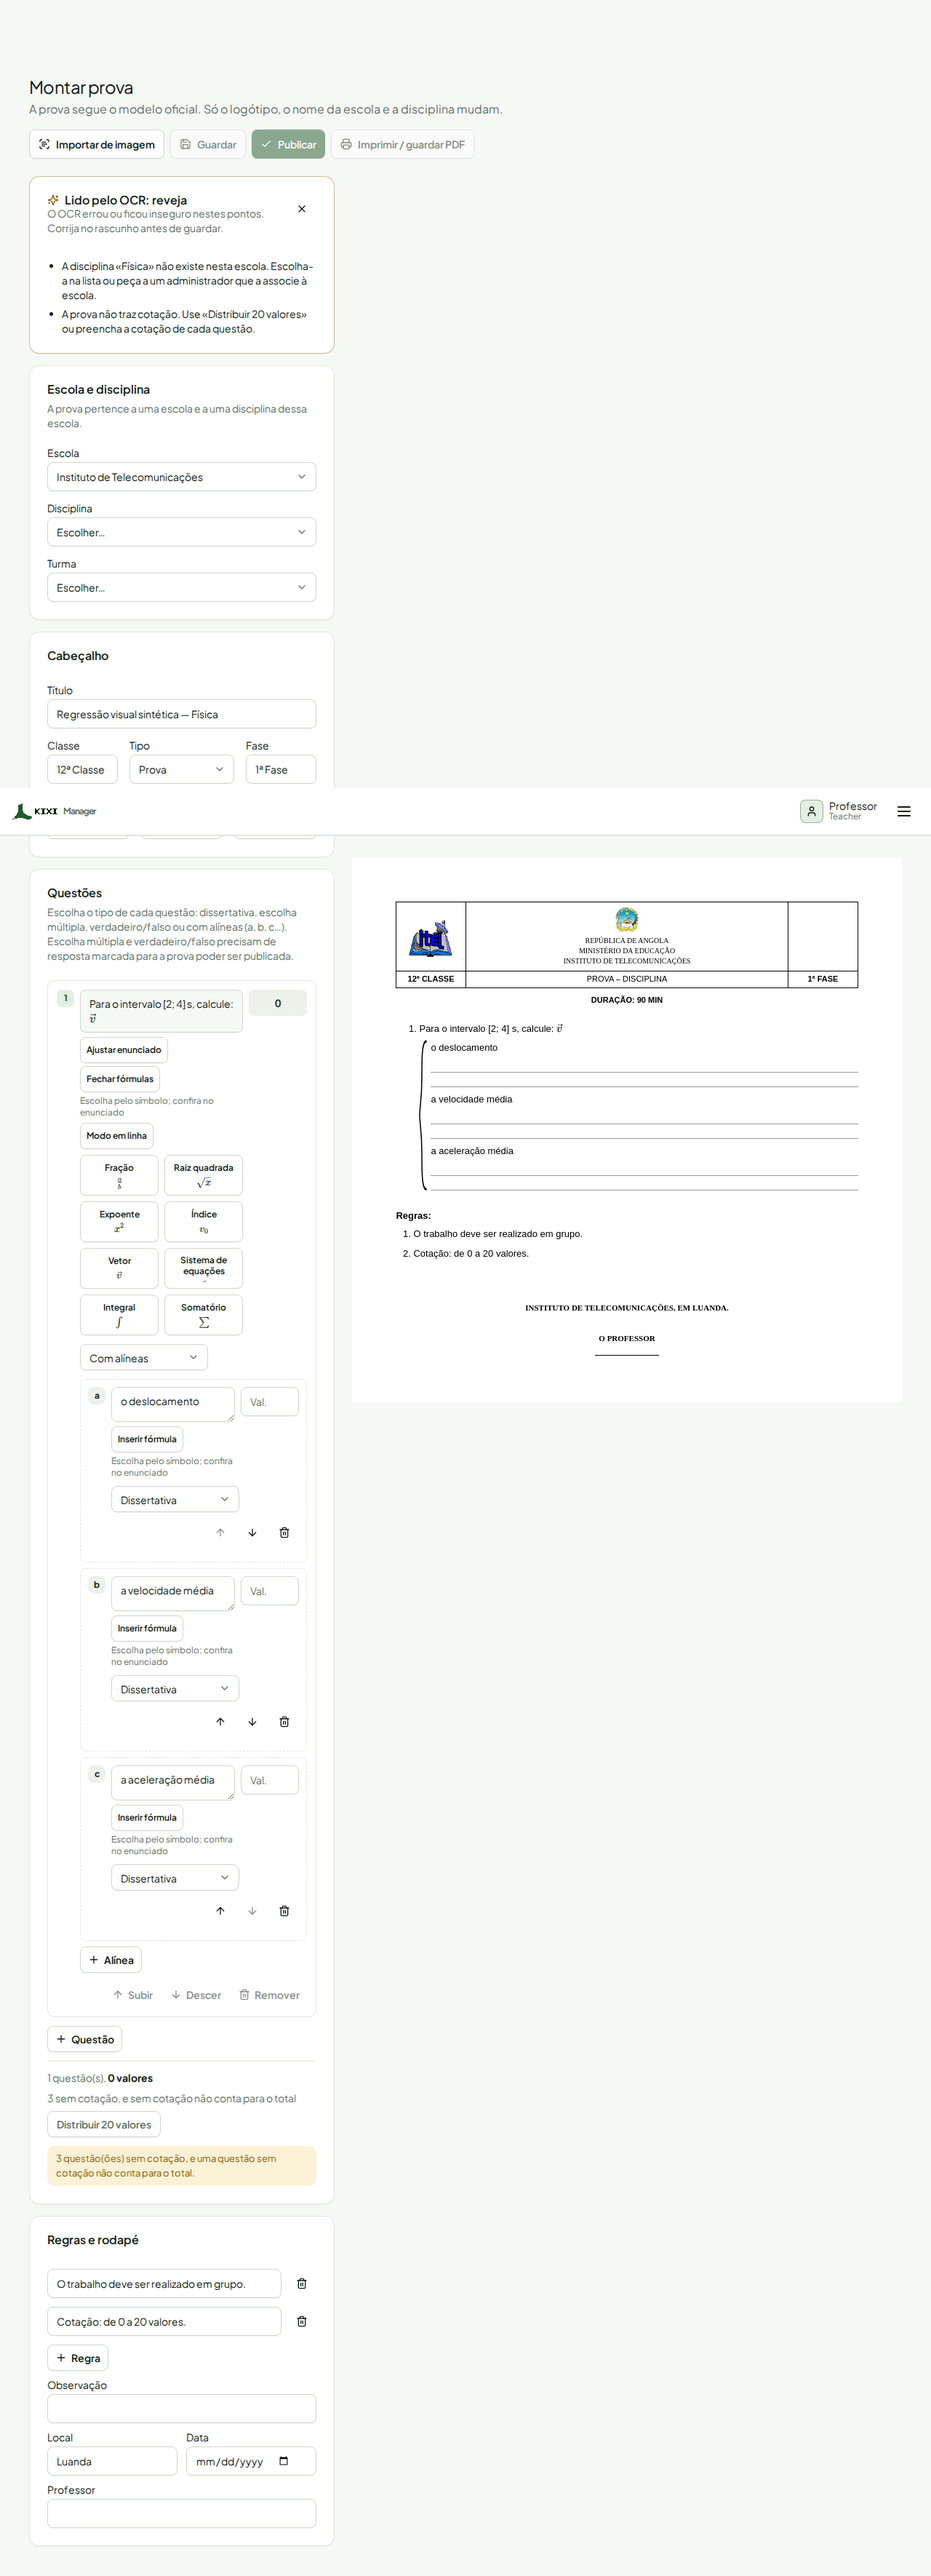
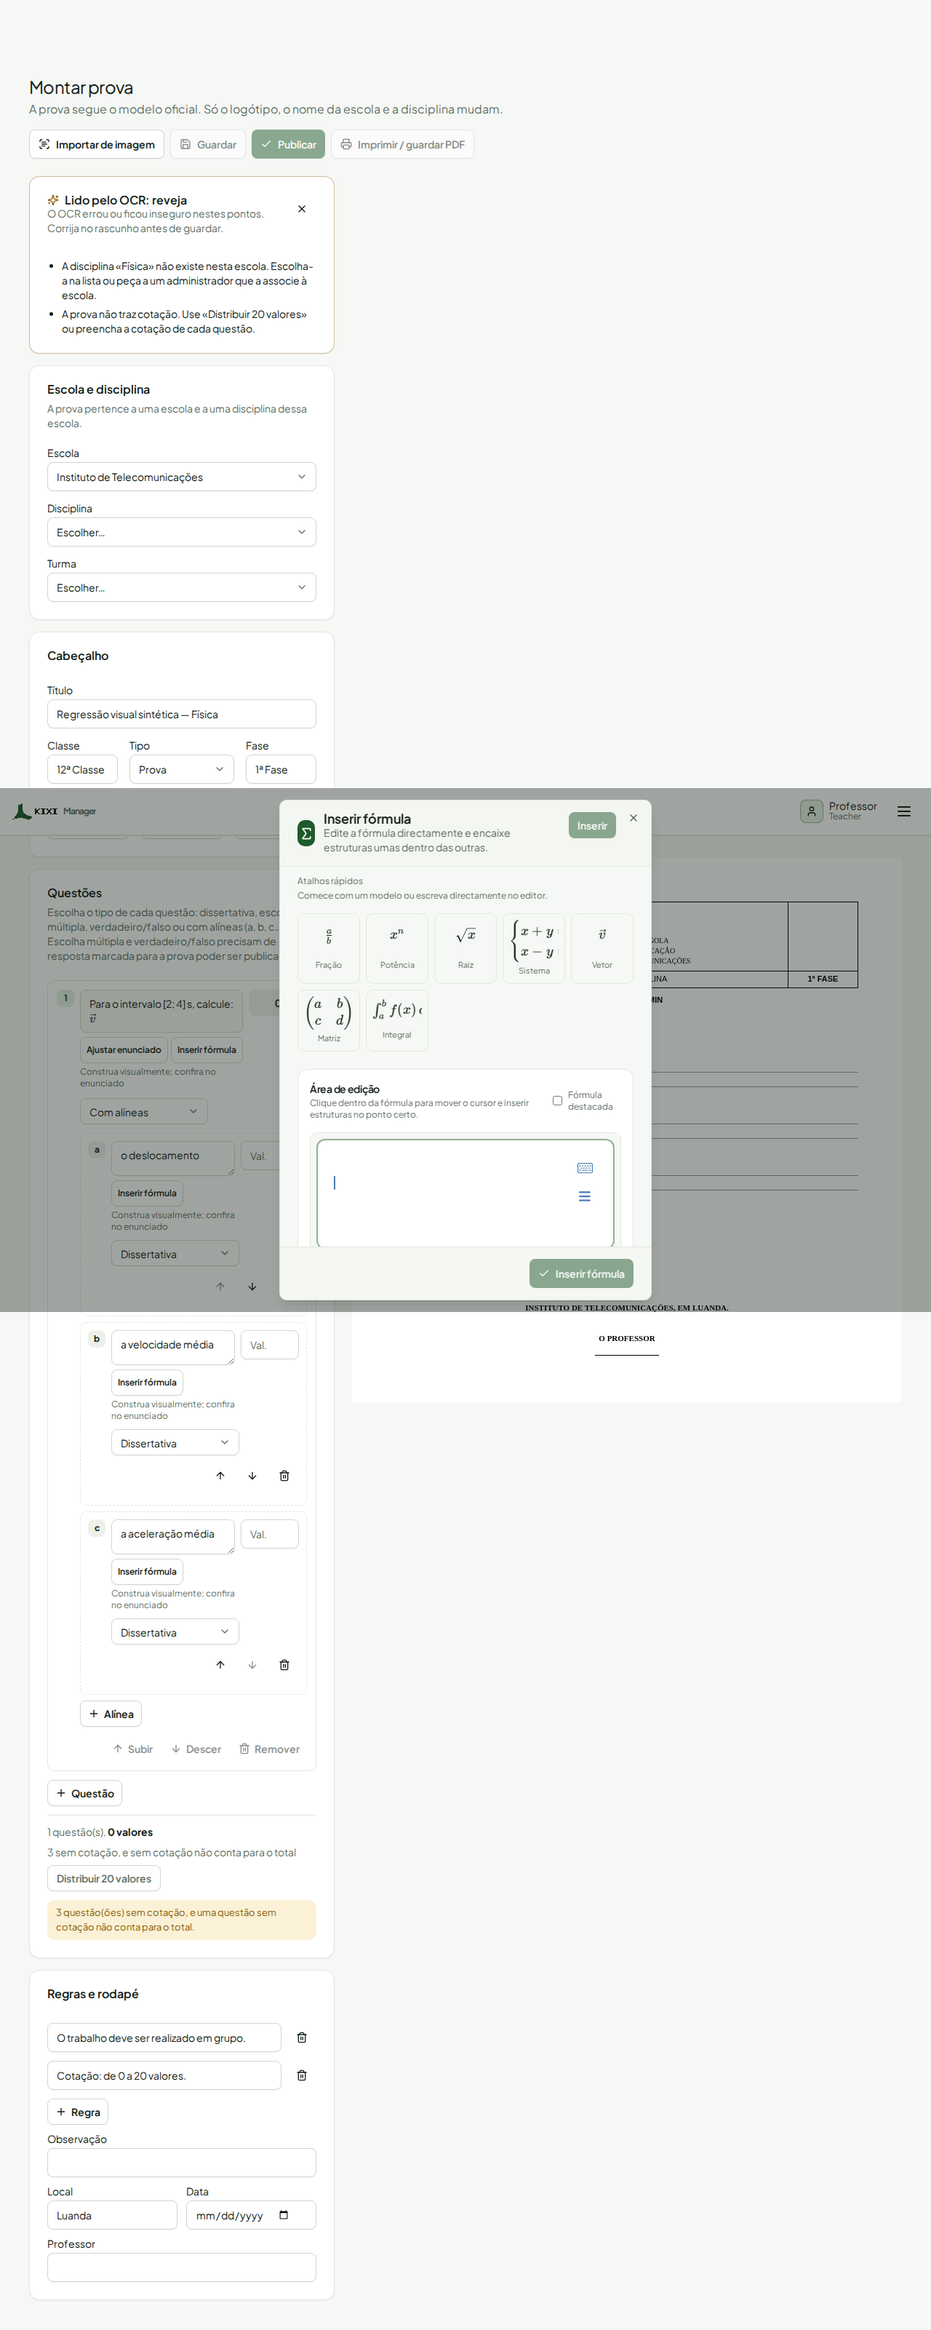
fix(exam): consolidate accessible MathLive authoring

diff --git a/components/exam/formula-builder-modal.tsx b/components/exam/formula-builder-modal.tsx
@@ -45,7 +45,7 @@ const TEMPLATES: FormulaTemplate[] = [
 ];
 
 const QUICK_TEMPLATES = TEMPLATES.filter((template) =>
-  ['fraction', 'power', 'root', 'matrix', 'integral'].includes(template.id),
+  ['fraction', 'power', 'root', 'system', 'vector', 'matrix', 'integral'].includes(template.id),
 );
 
 type MathfieldElementLike = HTMLElement & {
@@ -60,9 +60,11 @@ type MathfieldElementLike = HTMLElement & {
 function MathLiveField({
   value,
   onChange,
+  keyboardContainer,
 }: {
   value: string;
   onChange: (value: string) => void;
+  keyboardContainer: { current: HTMLDivElement | null };
 }) {
   const field = useRef<MathfieldElementLike | null>(null);
   const initialValue = useRef(value);
@@ -78,6 +80,7 @@ function MathLiveField({
       field.current.smartMode = true;
       field.current.smartFence = true;
       mathVirtualKeyboard.layouts = ['numeric', 'symbols', 'alphabetic', 'greek'];
+      mathVirtualKeyboard.container = keyboardContainer.current;
       setReady(true);
       field.current.focus();
     });
@@ -87,7 +90,7 @@ function MathLiveField({
         window.mathVirtualKeyboard.visible = false;
       }
     };
-  }, []);
+  }, [keyboardContainer]);
 
   useEffect(() => {
     if (ready && field.current && field.current.value !== value) {
@@ -123,6 +126,7 @@ export function FormulaBuilderModal({
 }) {
   const [formula, setFormula] = useState(initialFormula ?? '');
   const [display, setDisplay] = useState(initialDisplay ?? false);
+  const keyboardContainer = useRef<HTMLDivElement>(null);
 
   function chooseTemplate(template: FormulaTemplate) {
     setFormula(template.latex);
@@ -130,10 +134,6 @@ export function FormulaBuilderModal({
   }
 
   function handleOpenChange(next: boolean) {
-    if (next && !open) {
-      setFormula(initialFormula ?? '');
-      setDisplay(initialDisplay ?? false);
-    }
     onOpenChange(next);
   }
 
@@ -147,14 +147,19 @@ export function FormulaBuilderModal({
         onEscapeKeyDown={(event) => event.preventDefault()}
       >
         <DialogHeader className="border-b bg-muted/30 px-6 py-4 pr-12">
-          <div className="flex items-center gap-3">
-            <span className="grid size-9 place-items-center rounded-lg bg-primary text-primary-foreground">
-              <Sigma size={21} aria-hidden />
-            </span>
-            <div>
-              <DialogTitle>Inserir fórmula</DialogTitle>
-              <DialogDescription>Edite a fórmula directamente e encaixe estruturas umas dentro das outras.</DialogDescription>
+          <div className="flex items-start justify-between gap-3">
+            <div className="flex items-center gap-3">
+              <span className="grid size-9 place-items-center rounded-lg bg-primary text-primary-foreground">
+                <Sigma size={21} aria-hidden />
+              </span>
+              <div>
+                <DialogTitle>Inserir fórmula</DialogTitle>
+                <DialogDescription>Edite a fórmula directamente e encaixe estruturas umas dentro das outras.</DialogDescription>
+              </div>
             </div>
+            <Button type="button" size="sm" aria-label="Inserir fórmula" disabled={!formula.trim()} onClick={() => onInsert(formula, display)}>
+              Inserir
+            </Button>
           </div>
         </DialogHeader>
 
@@ -169,6 +174,7 @@ export function FormulaBuilderModal({
                 <button
                   key={template.id}
                   type="button"
+                  aria-label={`Inserir modelo ${template.label}`}
                   className="grid min-h-16 place-items-center gap-1 rounded-lg border bg-background px-2 py-2 text-center transition-colors hover:border-primary/60 hover:bg-accent"
                   onClick={() => chooseTemplate(template)}
                 >
@@ -190,7 +196,8 @@ export function FormulaBuilderModal({
                 </label>
               </div>
               <div className="mt-4 rounded-lg border bg-background p-3">
-                <MathLiveField value={formula} onChange={setFormula} />
+                <MathLiveField value={formula} onChange={setFormula} keyboardContainer={keyboardContainer} />
+                <div ref={keyboardContainer} className="formula-keyboard-host mt-3 min-h-56 overflow-x-auto rounded-lg" aria-label="Teclado virtual da fórmula" />
               </div>
             </section>
         </div>

diff --git a/components/exam/formula-input.tsx b/components/exam/formula-input.tsx
@@ -7,6 +7,19 @@ import { hasMathContent } from '@/student/lib/shared/math-content';
 import { MathText } from '@/student/lib/shared/math-text';
 import { FormulaBuilderModal } from './formula-builder-modal';
 
+function selectedFormula(value: string, start: number, end: number): { latex: string; display: boolean } {
+  const selection = value.slice(start, end);
+  const matches = [
+    { pattern: /^\$\$([\s\S]+)\$\$$/, display: true },
+    { pattern: /^\\\[([\s\S]+)\\\]$/, display: true },
+    { pattern: /^\$([\s\S]+)\$$/, display: false },
+    { pattern: /^\\\(([\s\S]+)\\\)$/, display: false },
+  ];
+  const match = matches.find(({ pattern }) => pattern.test(selection));
+  if (!match) return { latex: '', display: false };
+  return { latex: selection.replace(match.pattern, '$1'), display: match.display };
+}
+
 /** Editor deliberadamente pequeno: texto continua editável e a fórmula é KaTeX, sem novo runtime. */
 export function FormulaInput({
   value,
@@ -25,6 +38,7 @@ export function FormulaInput({
 }) {
   const input = useRef<HTMLTextAreaElement>(null);
   const selection = useRef({ start: 0, end: 0 });
+  const [builderInitial, setBuilderInitial] = useState({ latex: '', display: false });
   const [builderOpen, setBuilderOpen] = useState(false);
   const [sourceMode, setSourceMode] = useState(false);
   const showRenderedMath = hasMathContent(value) && !sourceMode;
@@ -45,6 +59,7 @@ export function FormulaInput({
       start: element?.selectionStart ?? value.length,
       end: element?.selectionEnd ?? value.length,
     };
+    setBuilderInitial(selectedFormula(value, selection.current.start, selection.current.end));
     setBuilderOpen(true);
   }
 
@@ -91,7 +106,14 @@ export function FormulaInput({
         </Button>
         <span className="ml-auto text-xs text-muted-foreground">Construa visualmente; confira no enunciado</span>
       </div>
-      <FormulaBuilderModal open={builderOpen} onOpenChange={setBuilderOpen} onInsert={insert} />
+      <FormulaBuilderModal
+        key={`${builderOpen}-${builderInitial.latex}-${builderInitial.display}`}
+        open={builderOpen}
+        onOpenChange={setBuilderOpen}
+        onInsert={insert}
+        initialFormula={builderInitial.latex}
+        initialDisplay={builderInitial.display}
+      />
     </div>
   );
 }

diff --git a/e2e/journeys.spec.ts b/e2e/journeys.spec.ts
@@ -516,8 +516,11 @@ await expect(page.getByText(/\(1 de \d+\)/)).toBeVisible();
     await expect(renderedQuestion.locator('.katex')).toBeVisible();
     const formulaToggle = page.getByRole('button', { name: 'Inserir fórmula' }).first();
     await formulaToggle.click();
-    const vectorButton = page.getByRole('button', { name: 'Inserir Vetor' }).first();
+    const formulaDialog = page.getByRole('dialog', { name: 'Inserir fórmula' });
+    const vectorButton = formulaDialog.getByRole('button', { name: 'Inserir modelo Vetor' });
+    const systemButton = formulaDialog.getByRole('button', { name: 'Inserir modelo Sistema' });
     await expect(vectorButton.locator('.katex')).toBeVisible();
+    await expect(systemButton.locator('.katex')).toBeVisible();
     await expect(renderedQuestion).toHaveAttribute('aria-readonly', 'true');
     const formulaEvidencePath = resolve(process.cwd(), 'docs/visual-evidence/ocr-physics/formula-picker-rendered-symbols.png');
     await page.locator('body').screenshot({ path: formulaEvidencePath });
@@ -526,8 +529,17 @@ await expect(page.getByText(/\(1 de \d+\)/)).toBeVisible();
       contentType: 'image/png',
     });
     await vectorButton.click();
+    await expect.poll(async () => formulaDialog.locator('math-field').evaluate((element) => (element as HTMLElement & { value: string }).value)).toContain('\\vec{v}');
+    await formulaDialog.getByRole('button', { name: 'Inserir fórmula' }).first().click();
     await expect(renderedQuestion).toHaveAttribute('aria-readonly', 'true');
     await expect(renderedQuestion.locator('.katex')).toHaveCount(2);
+
+    await page.getByRole('button', { name: 'Inserir fórmula' }).first().click();
+    const systemDialog = page.getByRole('dialog', { name: 'Inserir fórmula' });
+    await systemDialog.getByRole('button', { name: 'Inserir modelo Sistema' }).click();
+    await expect.poll(async () => systemDialog.locator('math-field').evaluate((element) => (element as HTMLElement & { value: string }).value)).toContain('\\begin{cases}');
+    await systemDialog.getByRole('button', { name: 'Inserir fórmula' }).first().click();
+    await expect(renderedQuestion.locator('.katex')).toHaveCount(3);
   });
 
   test('admin: cria escola e turma e regressa ao dashboard', async ({ page }) => {

diff --git a/app/globals.css b/app/globals.css
@@ -61,6 +61,18 @@ math-virtual-keyboard {
   overflow: hidden;
 }
 
+.formula-keyboard-host:empty {
+  display: none;
+}
+
+.formula-keyboard-host > .ML__keyboard {
+  height: auto;
+  min-height: 14rem;
+  border: 1px solid var(--border);
+  border-radius: 0.75rem;
+  overflow: hidden;
+}
+
 .kixi-math-review { text-decoration: underline wavy #b45309; text-decoration-thickness: 1px; text-underline-offset: 3px; }
 .kixi-math-review-label { margin-inline-start: 0.35rem; color: #92400e; font-size: 0.72em; font-weight: 600; }
 @media print {
